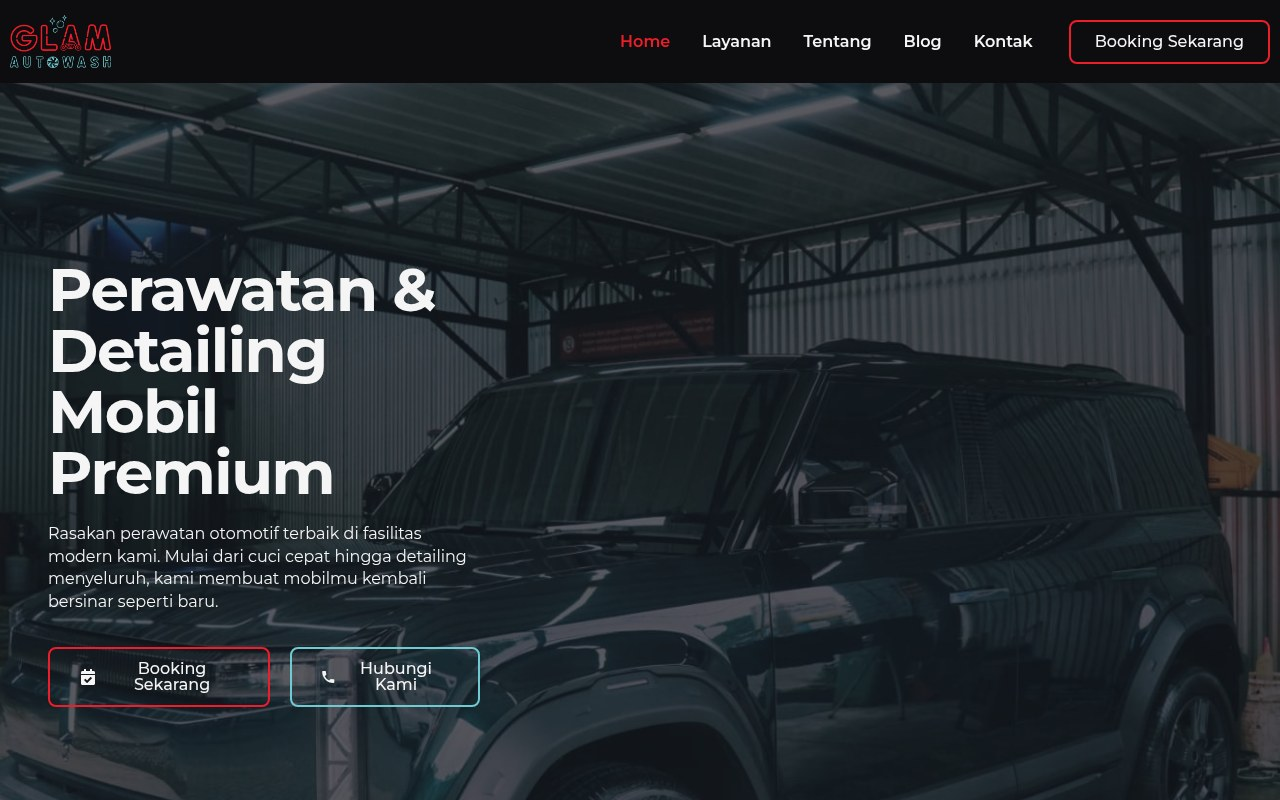
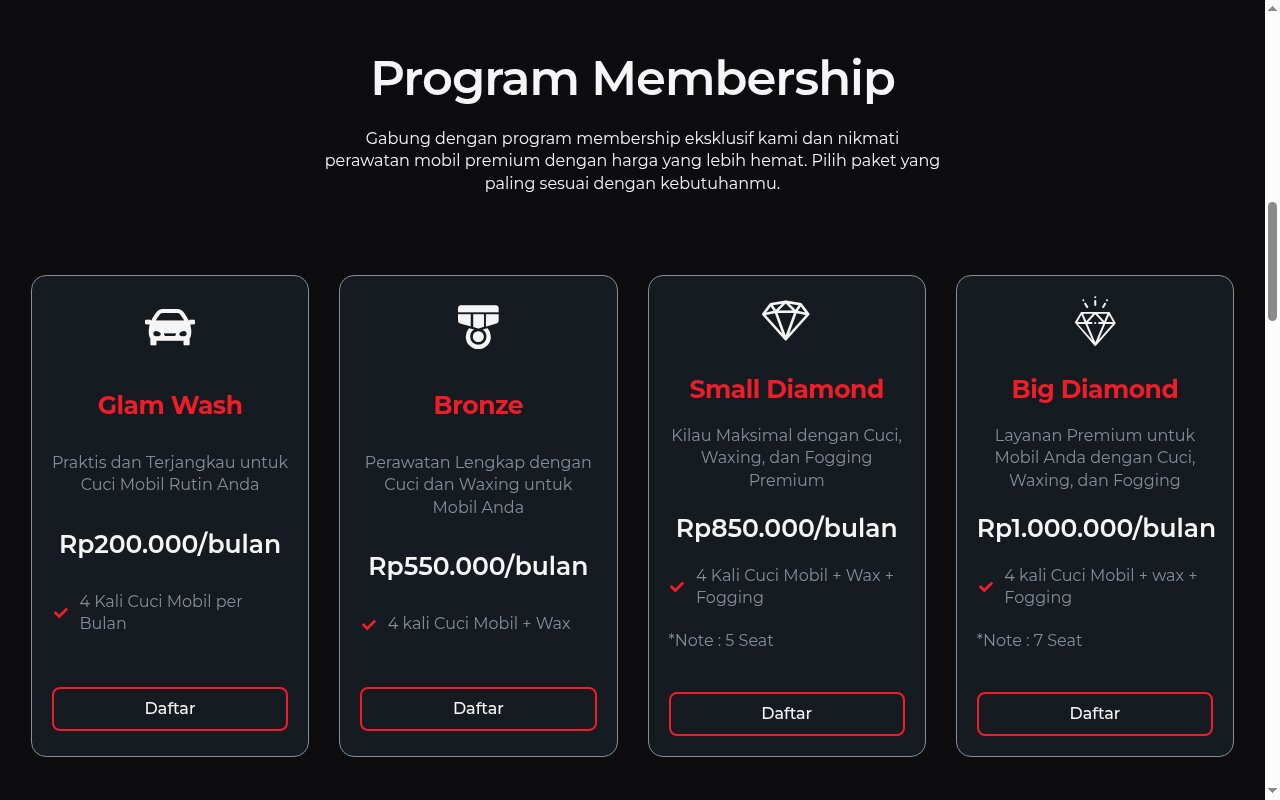
Enlarge About portrait, replace Glam thumbnail with live membership section, CSS v=r8

diff --git a/index.html b/index.html
@@ -12,7 +12,7 @@
 <link rel="preconnect" href="https://fonts.googleapis.com">
 <link rel="preconnect" href="https://fonts.gstatic.com" crossorigin>
 <link href="https://fonts.googleapis.com/css2?family=Fraunces:ital,opsz,wght@0,9..144,300;0,9..144,400;0,9..144,800;1,9..144,400&family=Inter:wght@400;500;600&display=swap" rel="stylesheet">
-<link rel="stylesheet" href="style.css?v=r7">
+<link rel="stylesheet" href="style.css?v=r8">
 </head>
 <body>
 <header class="hero" id="top">
@@ -139,7 +139,7 @@
         </a>
         <a class="row" href="https://glamautowash.com" target="_blank" rel="noopener">
           <span class="num">10</span>
-          <img class="thumb" src="shots/glamautowash.jpg" alt="Glam Autowash homepage with the headline Perawatan &amp; Detailing Mobil Premium" loading="lazy">
+          <img class="thumb" src="shots/glamautowash.jpg" alt="Glam Autowash membership section with four pricing plans from Glam Wash to Big Diamond" loading="lazy">
           <span class="row-main"><span class="row-name">Glam Autowash</span><span class="row-type">Premium car wash &amp; detailing &middot; Bahasa Indonesia</span><span class="row-desc">Car wash and detailing site with four membership plans, a five-step wash and wax process, customer testimonials and an embedded map.</span></span>
           <span class="go" aria-hidden="true">&#8599;</span>
         </a>

diff --git a/style.css b/style.css
@@ -193,5 +193,5 @@ body.menu-open{overflow:hidden}
 }
 /* portrait (r7) */
 .about-side{display:flex;flex-direction:column;gap:28px}
-.portrait{width:100%;max-width:340px;height:auto;border-radius:14px;display:block}
-@media(max-width:760px){.portrait{max-width:260px}}
+.portrait{width:100%;max-width:480px;height:auto;border-radius:14px;display:block}
+@media(max-width:760px){.portrait{max-width:340px}}
